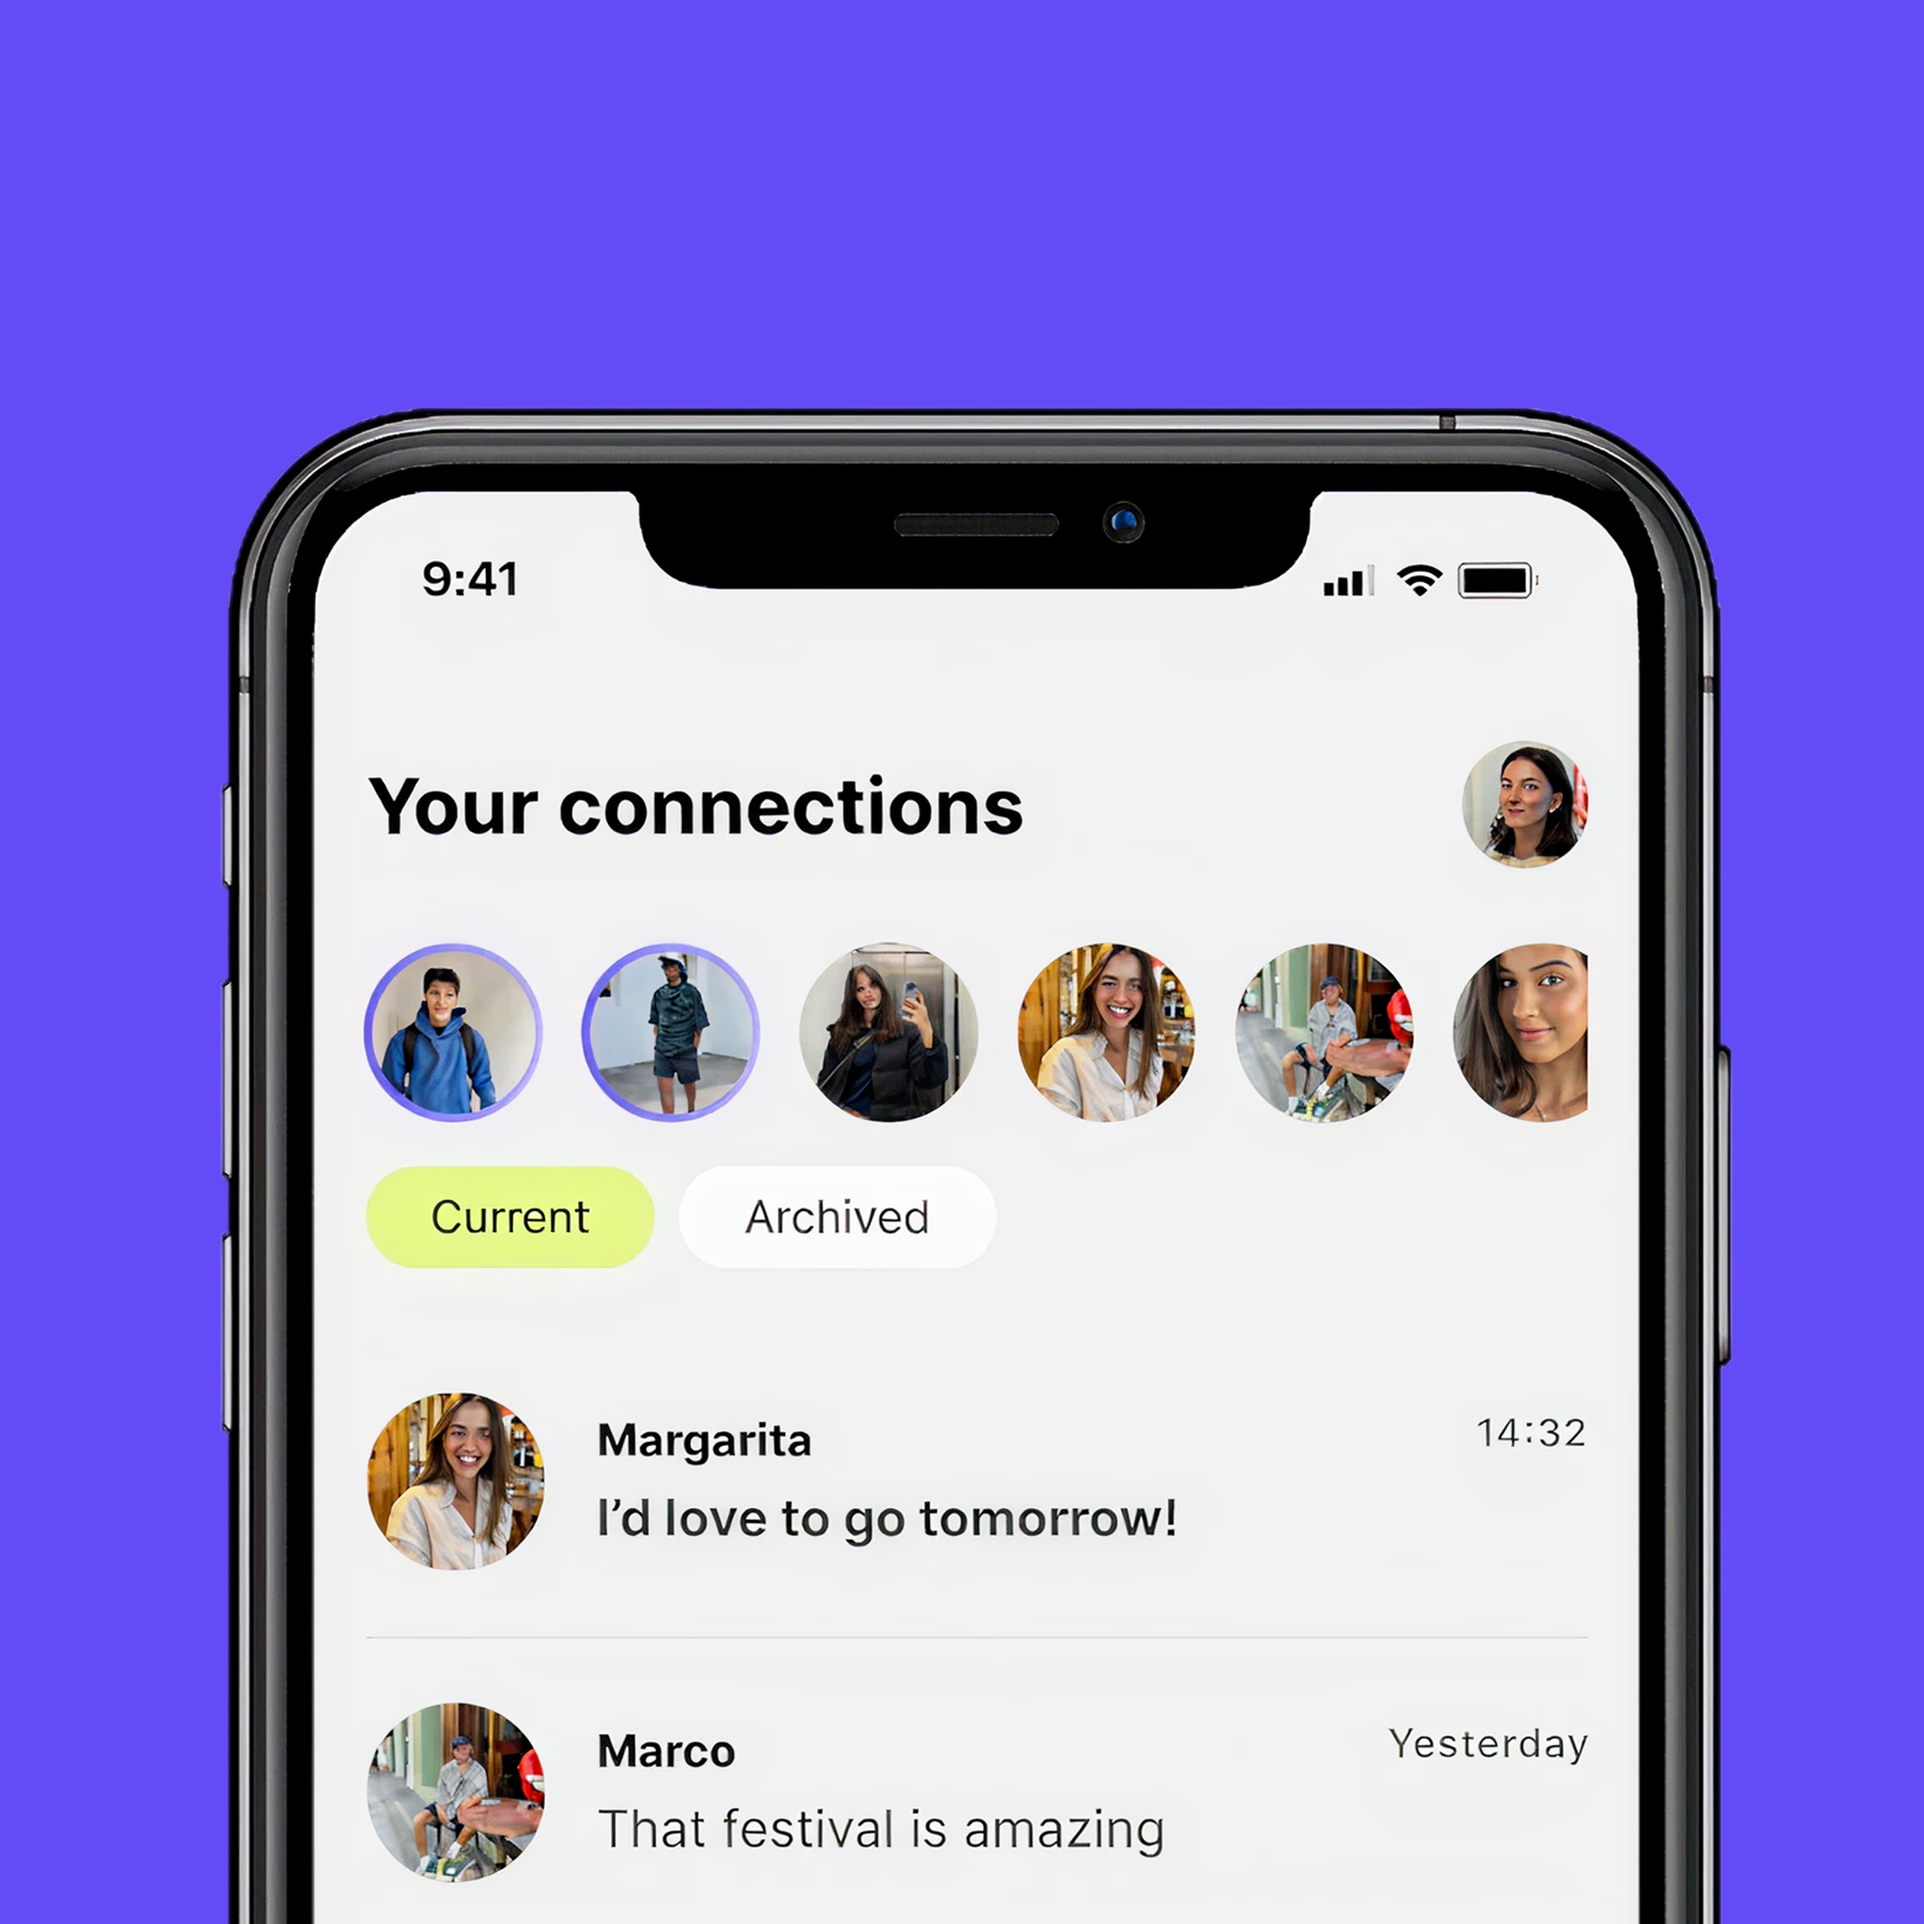
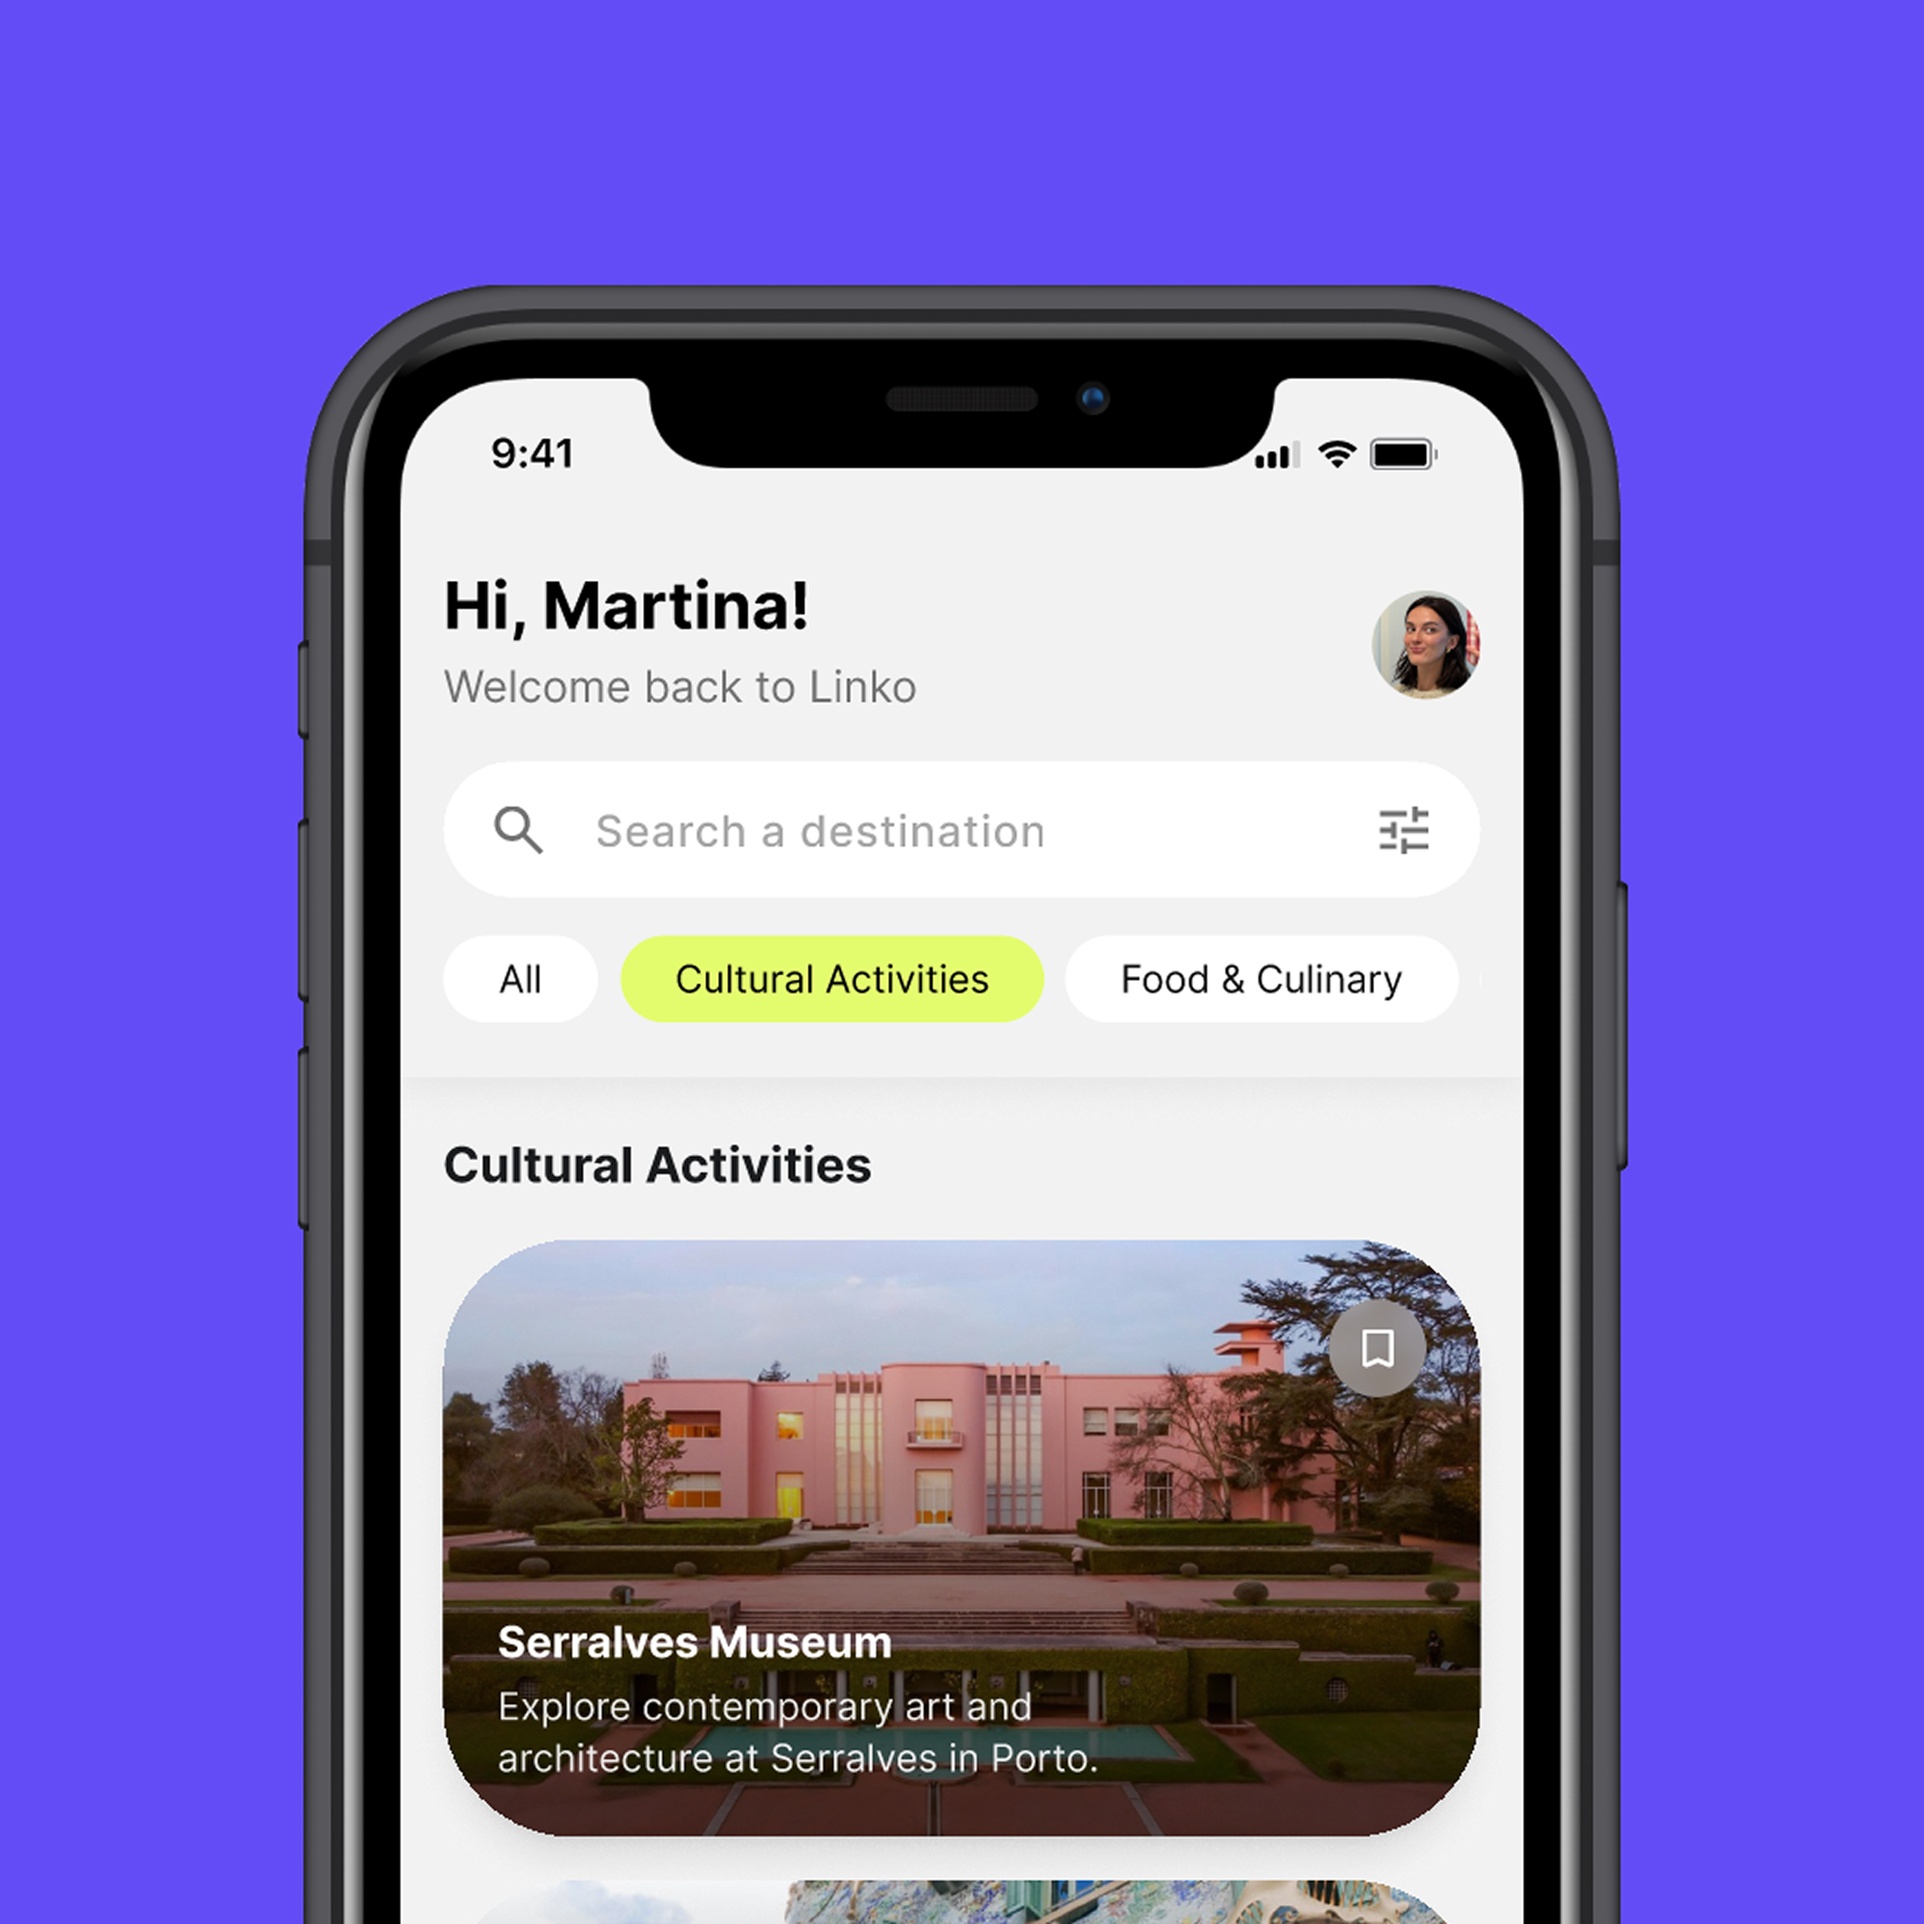
12

diff --git a/css/index.css b/css/index.css
@@ -101,6 +101,9 @@
     --side-margin: clamp(16px, 3vw, 64px);
     --side-margin-about: clamp(16px, 3vw, 24px);
     --hero-gap: 190px;
+    --header-height: 70px;
+    --header-btn-height: 26px;
+    --header-gap: calc((var(--header-height) - var(--header-btn-height)) / 2); 
 }
 
 /* RESET CSS */
@@ -177,7 +180,6 @@ body {
     animation: fade-up 1s ease 0.25s both;
 }
 
-/* Respeta a quien tiene desactivadas las animaciones en su sistema */
 @media (prefers-reduced-motion: reduce) {
     .header,
     .div__section_grid,
@@ -228,7 +230,7 @@ body {
 
 /* HEADER */
 .header {
-    height: 70px;
+    height: var(--header-height);
     display: flex;
     justify-content: center;
     align-items: center;
@@ -307,16 +309,16 @@ body {
 }
 
 .about-panel {
-    position: relative;            /* ya no es fixed */
+    position: relative;           
     width: min(550px, 94%);
-    height: auto;                  /* se ajusta al contenido */
-    margin: 7.8vh auto;            /* espacio arriba y abajo al hacer scroll */
+    height: auto;                  
+    margin: var(--header-height) auto;           
     background: rgb(226, 224, 224, 0.8);
     backdrop-filter: blur(10px);
     -webkit-backdrop-filter: blur(10px);
     padding: 30px 24px;
     border-radius: 6px;
-    transform: translateY(30px);   /* sin translateX, ya se centra con margin auto */
+    transform: translateY(30px); 
     opacity: 0;
     transition: opacity 0.8s ease, transform 0.8s ease;
 }

diff --git a/index.html b/index.html
@@ -208,12 +208,18 @@
 
             <div class="div__content div__img_4">
                 <div class="media__wrapper">
-                    <img src="Media/fotoprueba.avif" alt="img4" class="media__img media__img--default">
-                    <img src="Media/fotoprueba.avif" alt="img4" class="media__img media__img--hover">
+                    <picture>
+                        <source srcset="Media/Proyecto_4_Default.jpg" type="image/webp">
+                        <img src="Media/Proyecto_3_Default.jpg" alt="img4" class="media__img media__img--default">
+                    </picture>
+                    <picture>
+                        <source srcset="Media/Proyecto_4_Hover.jpg" type="image/webp">
+                        <img src="Media/Proyecto_3_Hover.jpg" alt="img1" class="media__img media__img--hover">
+                    </picture>
                 </div>
                 <div class="section__description">
                     <div class="section__description_titles">
-                        <h2 class="h2 h2__section__content">Linko App</h2>
+                        <h2 class="h2 h2__section__content">Linko app</h2>
                         <h3 class="h3 h3__section__content">2026</h3>
                     </div>
                     <p class="p p__section__content">Product Design, UX/UI</p>

diff --git a/Grid.html b/Grid.html
@@ -201,11 +201,20 @@
                 </div>
             </div>
 
-            <div class="div__content_driv div__img_4_grid">
-                <img src="Media/Proyecto_4_Default.jpg" alt="img1"> 
+            <div class="div__content div__img_4">
+                <div class="media__wrapper">
+                    <picture>
+                        <source srcset="Media/Proyecto_4_Default.jpg" type="image/webp">
+                        <img src="Media/Proyecto_3_Default.jpg" alt="img4" class="media__img media__img--default">
+                    </picture>
+                    <picture>
+                        <source srcset="Media/Proyecto_4_Hover.jpg" type="image/webp">
+                        <img src="Media/Proyecto_3_Hover.jpg" alt="img1" class="media__img media__img--hover">
+                    </picture>
+                </div>
                 <div class="section__description">
                     <div class="section__description_titles">
-                        <h2 class="h2 h2__section__content">Linko App</h2>
+                        <h2 class="h2 h2__section__content">Linko app</h2>
                         <h3 class="h3 h3__section__content">2026</h3>
                     </div>
                     <p class="p p__section__content">Product Design, UX/UI</p>
